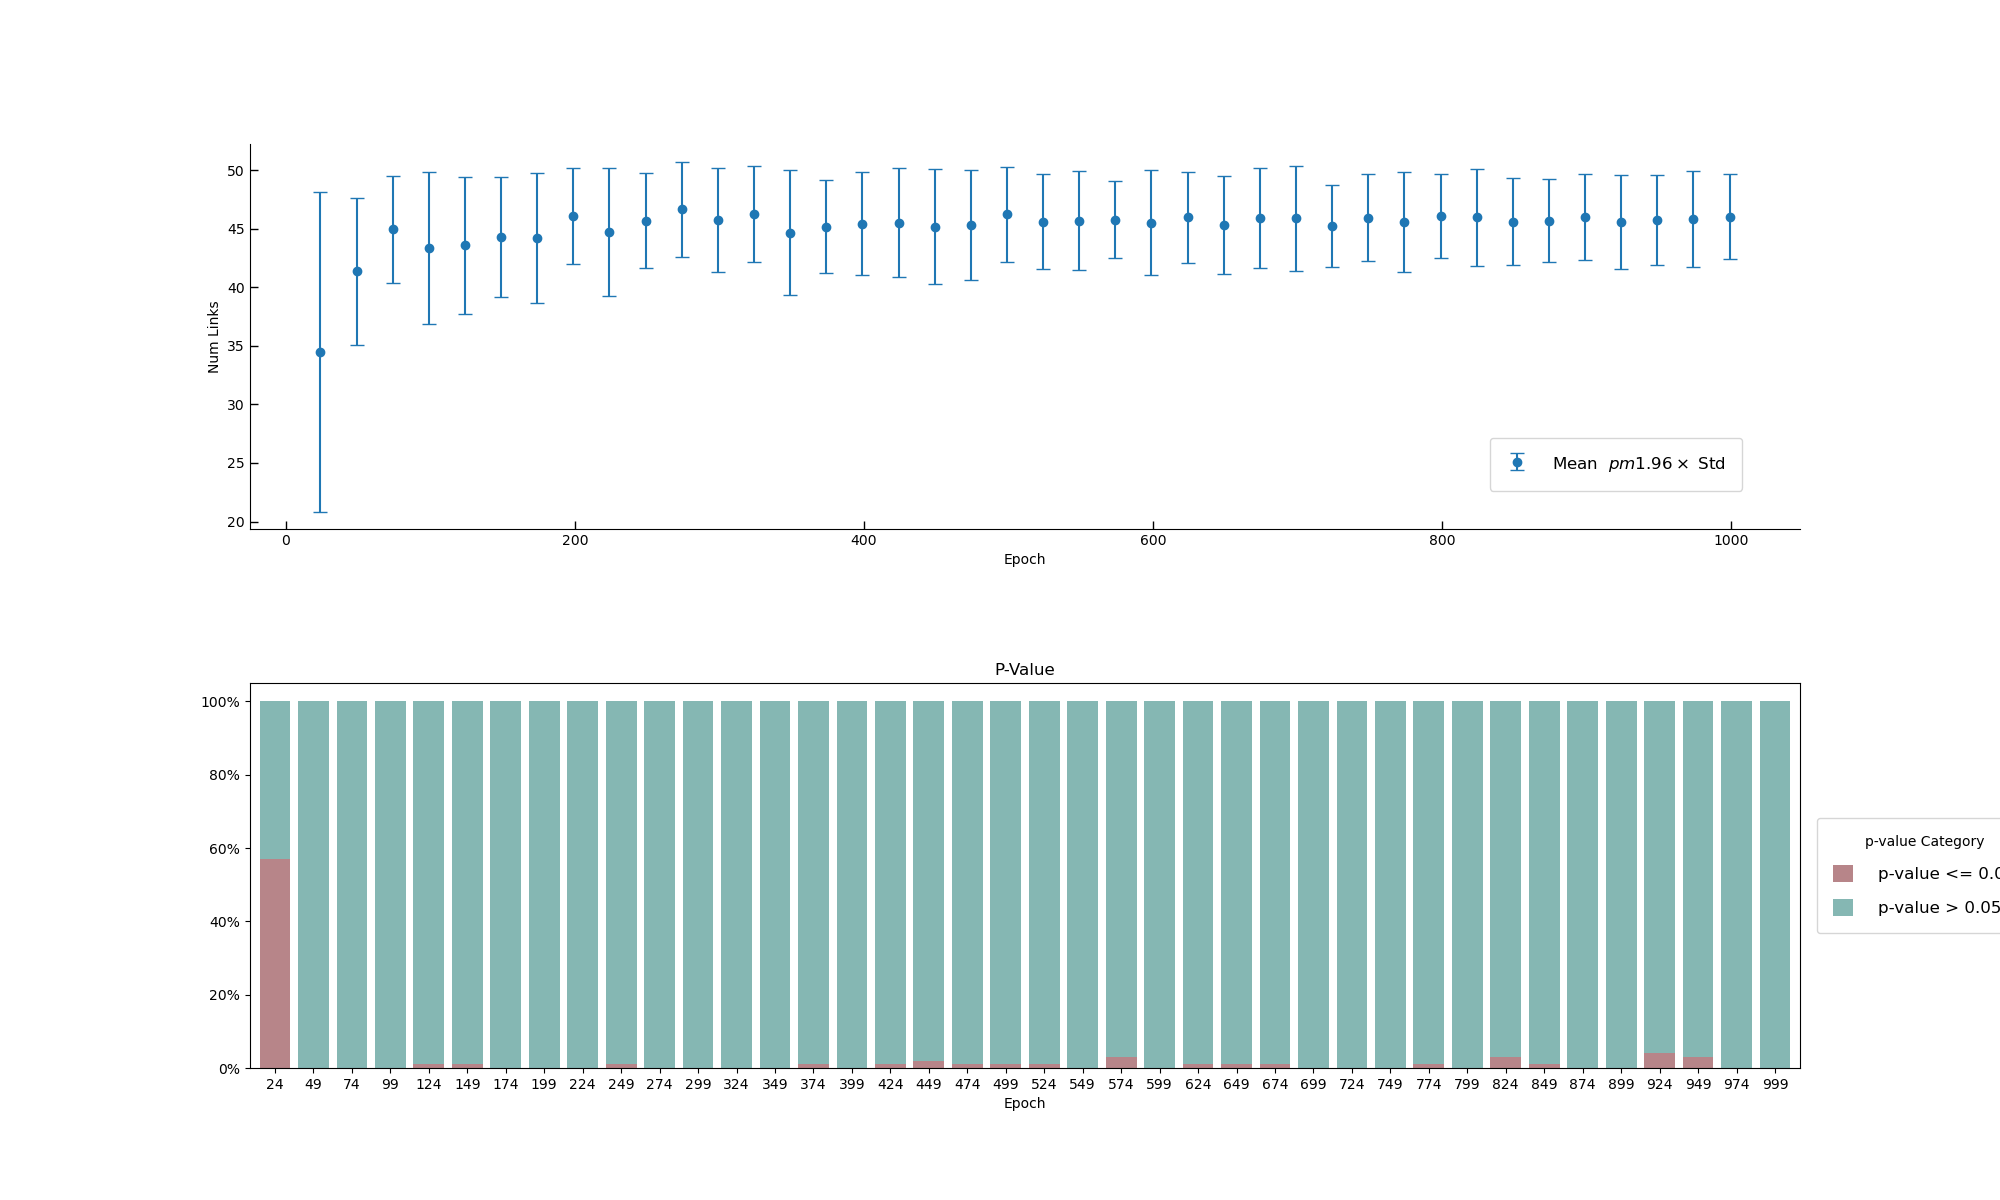
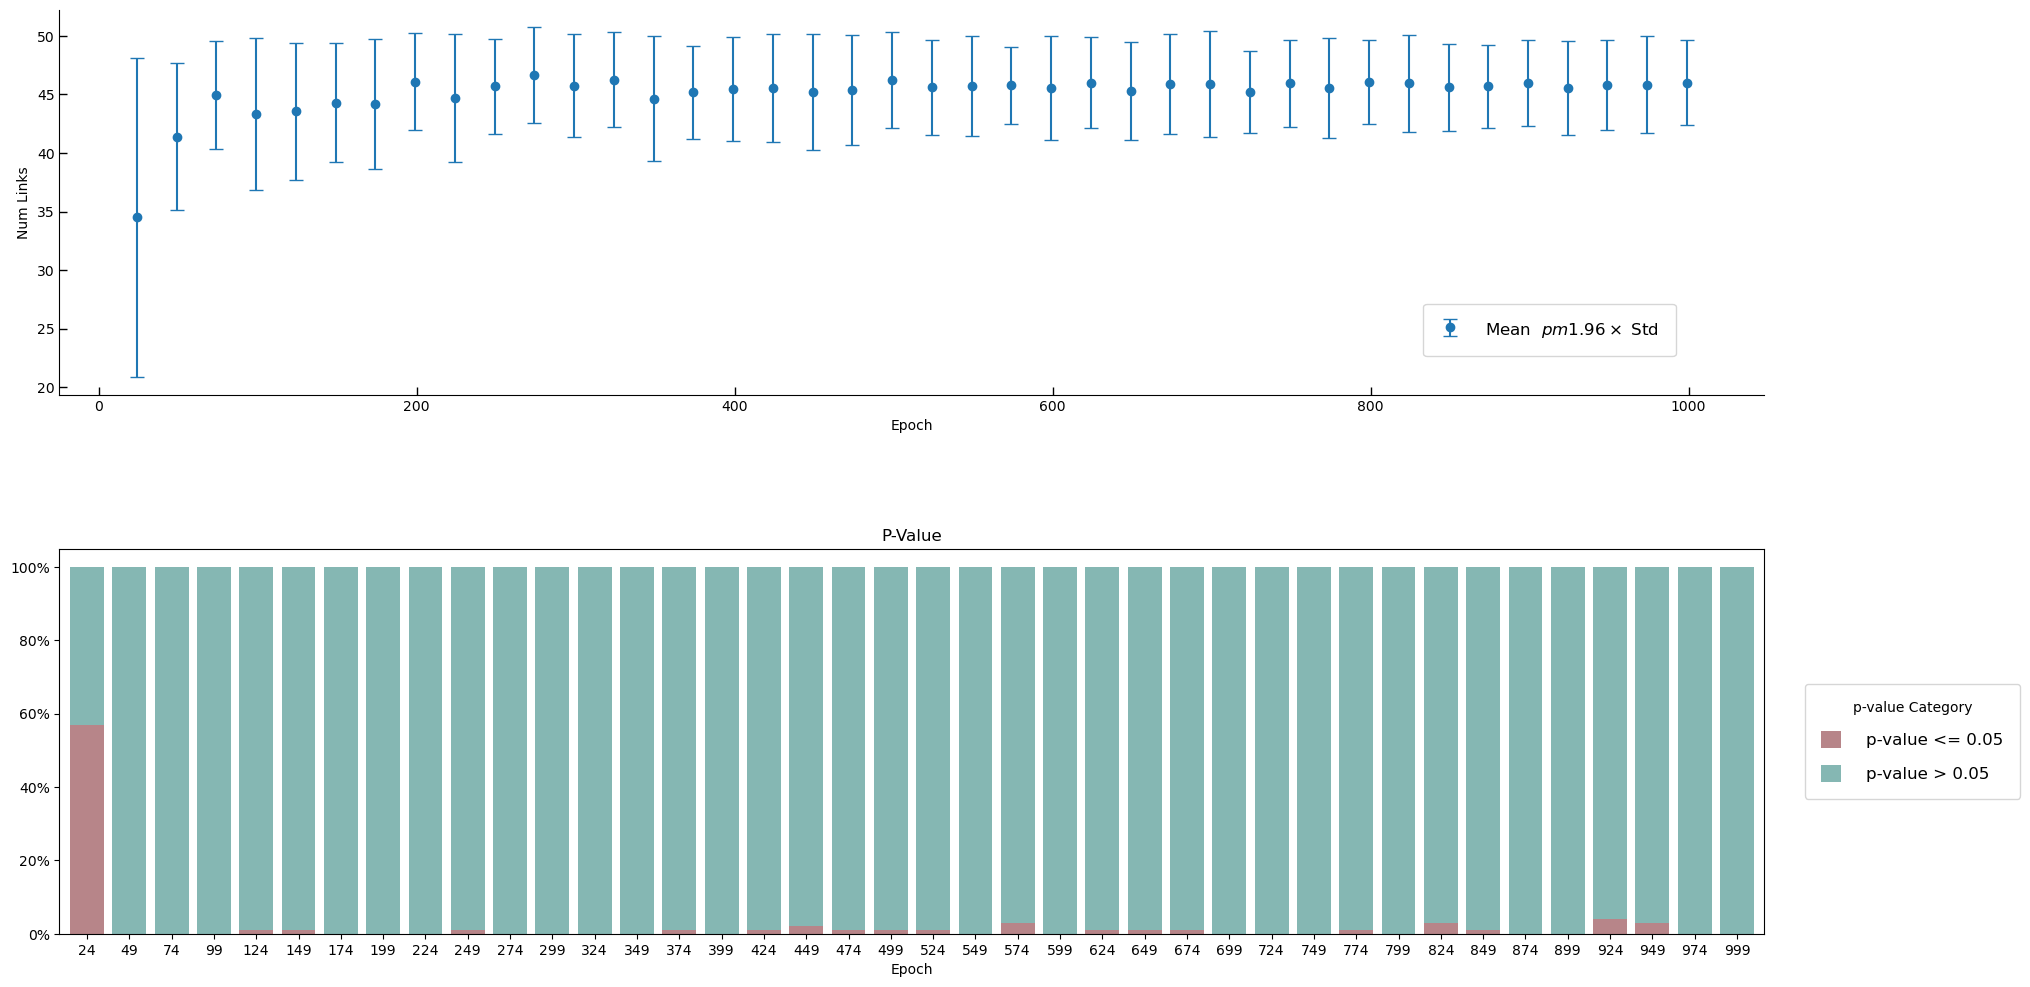
updated

diff --git a/legend_settings.py b/legend_settings.py
@@ -1,12 +1,12 @@
 legend_labels = ["p-value <= 0.05", "p-value > 0.05"]
 
 legend_loc = "center right"
-bbox_to_anchor=(1.15, 0.5)
+bbox_to_anchor=(1.0, 0.5)
 legend_fontsize = 14
 
 legend_kwarg = dict(labelspacing=1.0,
                     handlelength=1.2,
                     handleheight=1.2,
                     handletextpad=1.5,
-                    borderpad=1.0,
+                    borderpad=1.5,
                     borderaxespad=0.0)
